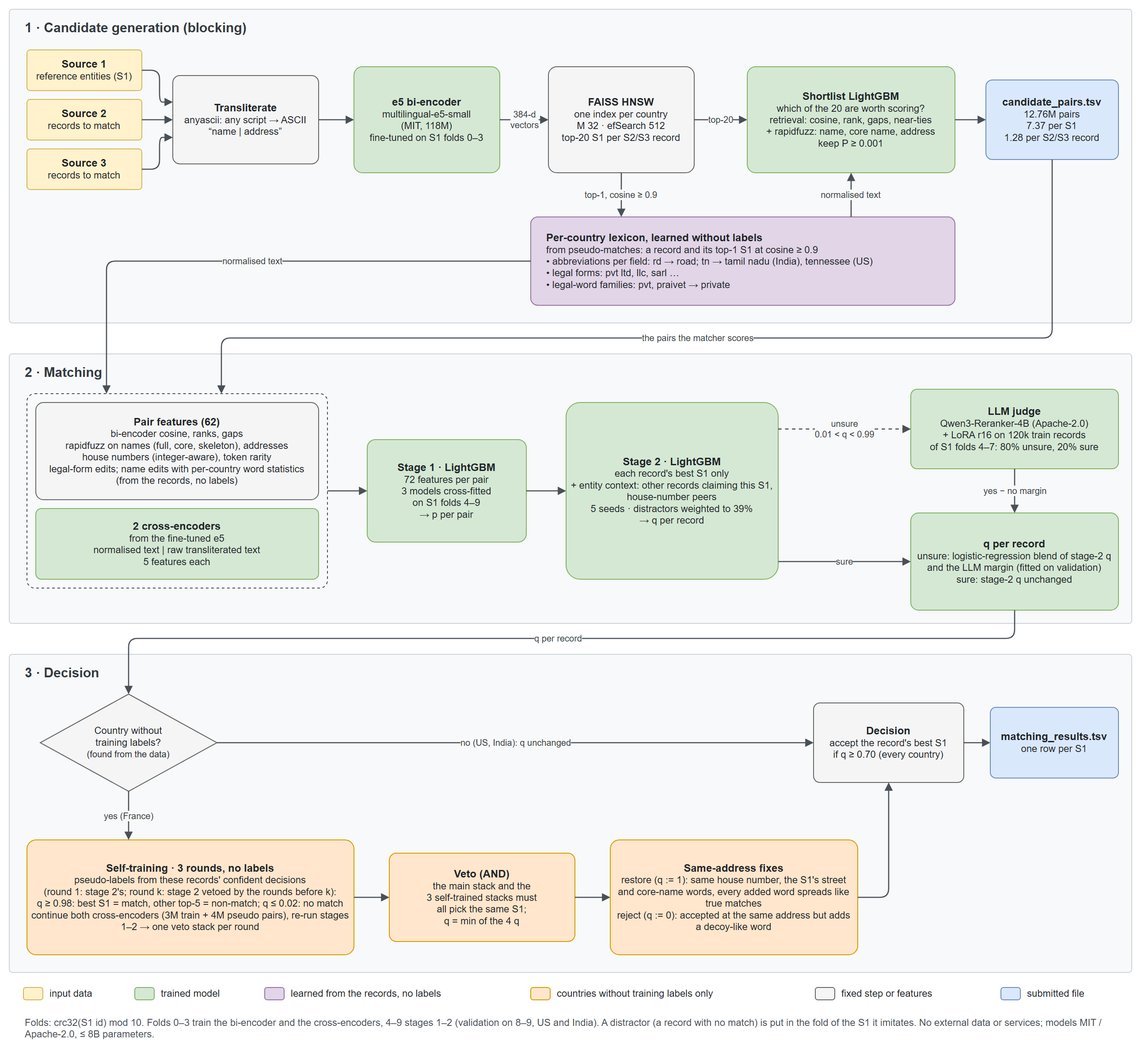
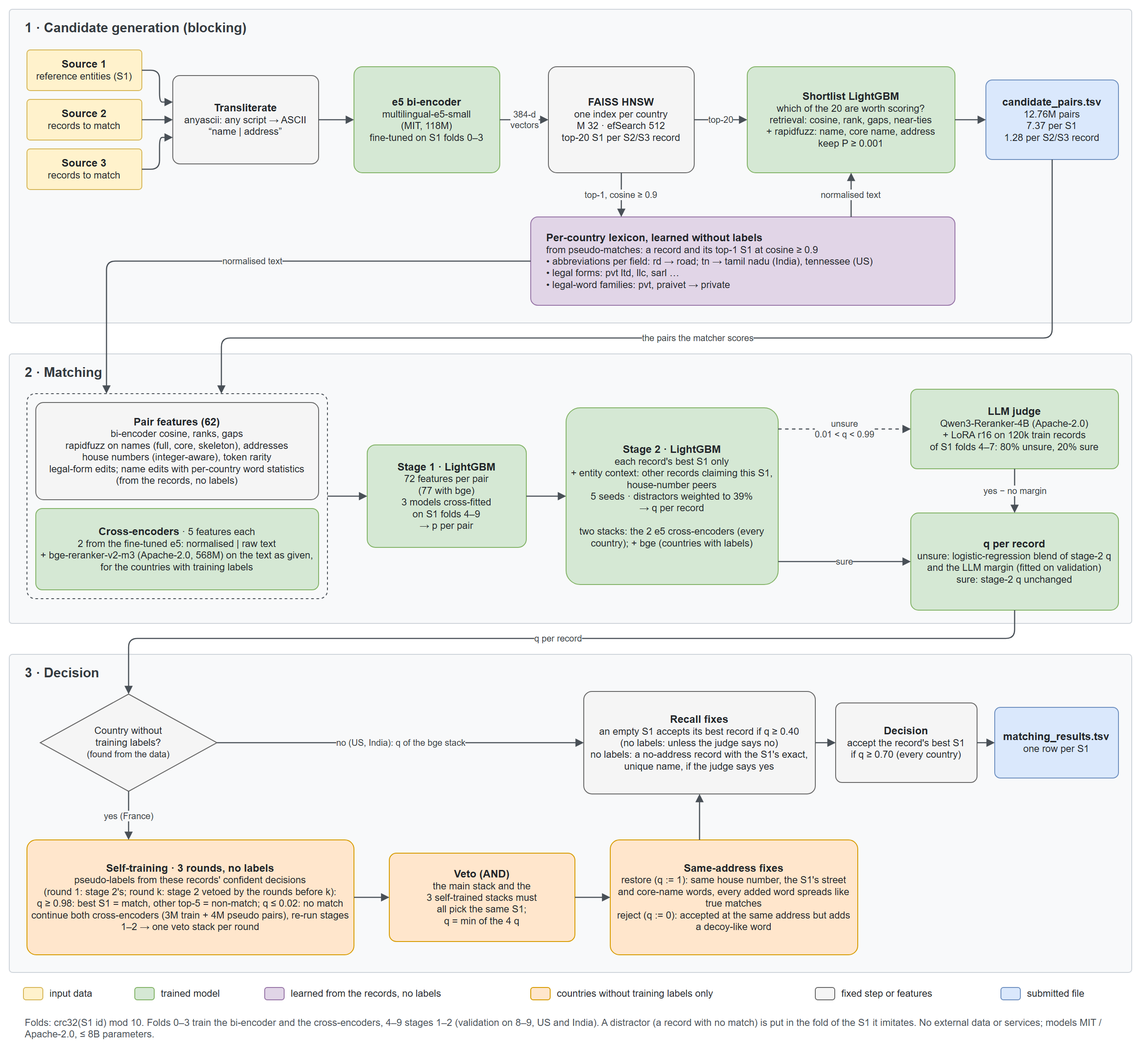
E16fr3 (leaderboard 0.990807): bge stack for the countries with labels, recall fixes
- reproduce.sh: lane C adds BAAI/bge-reranker-v2-m3 as a third cross-encoder after the LLM judge
  (x_ce3.py CE_BASE, 3M pairs) and reruns stages 1-2 with the three cross-encoders; llm_stack_b blends
  the judge into it (x/test_q_v10bplw). The final step takes the countries with labels from this stack
  and the others from the e5 stack with its three self-training vetoes.
- src/x_recall.py (from Mohanish's variant_frB): an S1 with no accepted record takes its best candidate
  if q >= 0.40 (without labels: unless the judge says no); for the countries without labels, a rejected
  no-address record with the S1's exact, unique name that the judge accepts is restored.
  US / India validation: bge + judge 0.99294 (e5 stack 0.99282), empty-S1 rule +0.00007 (Sarvesh's E1 /
  E13); France parts checked by hand review.
- README, Documentation_template.md and pipeline figure updated for this pipeline and score.

diff --git a/ber/src/x_recall.py b/ber/src/x_recall.py
@@ -1,0 +1,96 @@
+"""Two recall fixes on the final scores (after the vetoes and the same-address fixes), from Mohanish's variant_frB.
+  restore_empty  an S1 with no accepted record takes its best candidate if q >= 0.40: an S1 left empty scores 0 as soon
+                 as it has one true match (US / India validation on the bge + LLM stack: +0.00007, `val`). For the
+                 countries without training labels the LLM judge must not say no: the candidates it rejects there are
+                 mostly a type word swapped at the S1's own address (the same-building decoy the same-address fixes
+                 reject).
+  restore_nafr   countries without training labels: a rejected record with no address whose normalised name equals
+                 its S1's and no other S1's of the country, and that the judge accepts. US / India models accept 93-97%
+                 of these records, France 84%: its self-training vetoes learned "no address = reject".
+Both lists leave out the pairs the same-address fixes reject.
+  python x_recall.py COMB LLM RESTORE REJECT   e.g. _fin _v10p restore_dd reject_dd
+      COMB: x/test_q{COMB} (x_final.py SAVE_Q); LLM: x/llm_test{LLM}; RESTORE / REJECT: x_ddfix.py's lists
+      -> x/restore_empty.parquet, x/restore_nafr.parquet for x_final.py RESTORE=...
+  python x_recall.py val [VQ]                  the empty-S1 rule on US / India validation (x/llm_val{VQ}), with labels"""
+import sys, numpy as np, pandas as pd
+from common import WORK, load, unlabelled
+from match import normed
+
+XD = f"{WORK}/x"
+T, TE = 0.70, 0.40
+
+
+def lists(comb, llm, restore, reject):
+    d = pd.read_parquet(f"{XD}/test_q{comb}.parquet")
+    key = pd.MultiIndex.from_arrays([d.rid.values, d.sid.values])
+    rj = pd.MultiIndex.from_frame(pd.read_parquet(f"{XD}/{reject}.parquet")[["rid", "sid"]])
+    for f, val in ((restore, 1.0), (reject, 0.0)):
+        r = pd.read_parquet(f"{XD}/{f}.parquet")
+        d.loc[key.isin(pd.MultiIndex.from_frame(r[["rid", "sid"]])), "q"] = val
+    L = pd.read_parquet(f"{XD}/llm_test{llm}.parquet", columns=["rid", "sid", "llm"])
+    m = pd.Series(L.llm.values, index=pd.MultiIndex.from_frame(L[["rid", "sid"]])).reindex(key).values
+    unl = d.c.isin(unlabelled()).values
+    acc = d.q.values >= T
+    ct1 = load("test", 1).country.values
+    has = np.bincount(d.sid.values[acc], minlength=len(ct1)) > 0
+    ok = ~has[d.sid.values] & (d.q.values >= TE) & ~key.isin(rj) & ~(unl & (m <= 0))
+    b = d[ok].sort_values("q", ascending=False).drop_duplicates("sid")
+    b[["rid", "sid"]].to_parquet(f"{XD}/restore_empty.parquet")
+    print("restore_empty", len(b), b.c.value_counts().to_dict(), flush=True)
+    t1, t2 = normed("test", 1), pd.concat([normed("test", 2), normed("test", 3)], ignore_index=True)
+    noaddr = t2.na.values[d.rid.values] == ""
+    nn = pd.DataFrame({"c": ct1, "nn": t1.nn.values}).value_counts()
+    twin = nn.reindex(pd.MultiIndex.from_arrays([d.c.values, t2.nn.values[d.rid.values]])).fillna(0).values >= 2
+    same = t2.nn.values[d.rid.values] == t1.nn.values[d.sid.values]
+    sel = unl & ~acc & noaddr & ~twin & same & (m > 0) & ~key.isin(rj)
+    d[sel][["rid", "sid"]].to_parquet(f"{XD}/restore_nafr.parquet")
+    print("restore_nafr", int(sel.sum()), d[sel].c.value_counts().to_dict(), flush=True)
+
+
+def val(vq):
+    """the empty-S1 rule on US / India validation: stage 2 + the judge's blend (cross-fitted over two halves of the
+    S1s, as x_llm.stack_check), then every S1 with no accepted row takes its best row if q >= t"""
+    import os
+    os.environ["DFOLD"] = "1"
+    from sklearn.linear_model import LogisticRegression
+    from harness import truth_arrays
+    s1, other, ts, s1f, rf = truth_arrays()
+    Tn = np.bincount(ts[ts >= 0], minlength=len(s1f)); ents = np.where(s1f >= 8)[0]
+    cty = load("train", 1).country.values
+    v = pd.read_parquet(f"{XD}/llm_val{vq}.parquet")
+    X = lambda d: np.c_[np.log(np.clip(d.q.values, 1e-6, 1 - 1e-6) / np.clip(1 - d.q.values, 1e-6, 1)), d.llm.values]
+    band = np.isfinite(v.llm.values); q = v.q.values.copy()
+    for h in (0, 1):
+        tr, te = band & (v.sid.values % 2 != h), band & (v.sid.values % 2 == h)
+        q[te] = LogisticRegression(C=1.0).fit(X(v[tr]), v.y.values[tr], sample_weight=v.wt.values[tr]).predict_proba(X(v[te]))[:, 1]
+    sid, y, wt = v.sid.values, v.y.values, v.wt.values
+
+    def f05(acc, e):
+        n = len(Tn)
+        tp = np.bincount(sid[acc & y], minlength=n)[e]
+        fp = np.bincount(sid[acc & ~y], weights=wt[acc & ~y], minlength=n)[e]
+        t = Tn[e]
+        pr = np.divide(tp, tp + fp, out=np.zeros(len(t)), where=tp + fp > 0)
+        rc = tp / np.maximum(t, 1)
+        f = np.divide(1.25 * pr * rc, 0.25 * pr + rc, out=np.zeros(len(t)), where=tp > 0)
+        return np.where(t == 0, (tp + fp == 0).astype(float), f).mean()
+
+    acc = q >= T
+    has = np.bincount(sid[acc], minlength=len(Tn)) > 0
+    best = pd.DataFrame({"i": np.arange(len(v)), "sid": sid, "q": q})[~has[sid]].sort_values("q", ascending=False).drop_duplicates("sid")
+    for c in sorted(set(cty[ents])) + ["all"]:
+        e = ents if c == "all" else ents[cty[ents] == c]
+        f0 = f05(acc, e)
+        out = []
+        for t in (0.2, 0.3, 0.4, 0.5, 0.6):
+            k = best[(best.q.values >= t) & np.isin(best.sid.values, e)].i.values
+            a = acc.copy(); a[k] = True
+            out.append(f"t {t}: +{len(k)} rows (true {y[k].mean() if len(k) else 0:.3f}) {f05(a, e) - f0:+.5f}")
+        print(f"{c}: F0.5 {f0:.5f}; " + "; ".join(out), flush=True)
+
+
+if __name__ == "__main__":
+    if sys.argv[1] == "val":
+        val(sys.argv[2] if len(sys.argv) > 2 else "_v10p")
+    else:
+        lists(*sys.argv[1:5])

diff --git a/ber/Documentation_template.md b/ber/Documentation_template.md
@@ -12,10 +12,11 @@ We resolve every Source 2 / Source 3 record on its own: find its best Source 1 (
 candidate set, then accept or reject that one link with models that also see every other record claiming the same
 entity. Blocking uses a fine-tuned multilingual bi-encoder, HNSW search and a calibrated LightGBM shortlist. It produces
 7.37 candidate pairs per S1 and keeps 99.98% of the true pairs that retrieval finds. Matching stacks two LightGBM
-stages over 62 pair features and two cross-encoders, and a LoRA-tuned 4B reranker judges the unsure records. France has
-no training labels, so it gets three self-training rounds, used only as vetoes, and label-free fixes derived from how
-the data places decoys at house numbers. Macro F0.5 is **0.99282 on US / India validation** and **0.990349 on the
-public leaderboard**.
+stages over 62 pair features and two cross-encoders (three, with a bge reranker, for the countries with training
+labels), and a LoRA-tuned 4B reranker judges the unsure records. France has no training labels, so it gets three
+self-training rounds, used only as vetoes, and label-free fixes derived from how the data places decoys at house
+numbers. Last, recall fixes fill S1s left empty and restore no-address records that carry the S1's exact, unique name.
+Macro F0.5 is **0.9930 on US / India validation** and **0.990807 on the public leaderboard**.
 
 ---
 
@@ -47,6 +48,8 @@ We measured these on the provided files (train: US and India; test: US, India an
 2. **A country without labels, handled without hand-written rules:** self-training that can only *remove* matches (an
    AND-veto), and a label-free "census" of decoy placement that decides same-address records. Both were validated on
    the labelled countries before use.
+3. **The metric rewards recall per entity:** an S1 left empty scores 0 as soon as it has one true match, so an empty
+   S1 takes its best candidate above a lower bar (validated on the labelled countries).
 
 ![Pipeline](pipeline.png)
 
@@ -121,7 +124,8 @@ about. We kept P ≥ 0.001.
 
 ## 4. Matching Model
 
-**Features used** (72 per pair in stage 1: 45 pair features, 17 edit / number features, 10 cross-encoder features):
+**Features used** (72 per pair in stage 1: 45 pair features, 17 edit / number features, 10 cross-encoder features;
+77 in the stack with the bge cross-encoder):
 
 - **Name features:**
     - rapidfuzz ratio, token-set, token-sort, partial and Jaro-Winkler on the normalised full name and on the core name
@@ -157,7 +161,8 @@ about. We kept P ≥ 0.001.
 | Component | Model | Trained on |
 |---|---|---|
 | Cross-encoders (×2) | e5-small initialised from the fine-tuned bi-encoder, one on normalised text and one on raw transliterated text (the raw one keeps punctuation and suffix spellings) | retrieved top-5 pairs of S1 folds 0–3, so wrong-S1 negatives are included |
-| Stage 1 | LightGBM (255 leaves, lr 0.05) on 72 features, cross-fitted in 3 fold groups over folds 4–9 (test = mean of the 3 models) | all candidate pairs |
+| Third cross-encoder (countries with labels) | `BAAI/bge-reranker-v2-m3` (Apache-2.0, 568M) on the text as given (case, accents, scripts); stages 1–2 are rerun with all three cross-encoders, and this stack is the base for the countries with labels (validation with the judge 0.99294 vs 0.99282). The countries without labels keep the two-cross-encoder stack, on which their self-training is built | 3M retrieved pairs of S1 folds 0–3 |
+| Stage 1 | LightGBM (255 leaves, lr 0.05) on 72 features (77 with bge), cross-fitted in 3 fold groups over folds 4–9 (test = mean of the 3 models) | all candidate pairs |
 | Stage 2 | LightGBM on each record's best pair + entity context; distractors weighted to the test share (39%), 5 seeds averaged | folds 4–9 (validated on 8–9 after fitting on 4–7) |
 | LLM judge | `Qwen/Qwen3-Reranker-4B` (Apache-2.0, 4.0B) + LoRA (r 16, α 32) on the raw name and address text; score = logit(yes) − logit(no) | 120k best pairs of folds 4–7: 80% with an unsure stage-1 p, 20% sure |
 | Judge blend | For unsure records (0.01 < q < 0.99), a logistic regression on [logit q, LLM margin] replaces q | validation rows |
@@ -165,8 +170,10 @@ about. We kept P ≥ 0.001.
 | Vetoes | a record of such a country is accepted only if the main stack and the 3 self-trained stacks all pick the same S1, at the lowest of the 4 scores | |
 | Same-address fixes (countries without labels) | label-free census: each S1 gets a roughly fixed number of decoys, normally at one shifted number, so a decoy placed at the S1's *own* address leaves that shifted cluster short. For every word records add at the S1's address, we compare how many of the S1's records sit at other numbers, between those records and unedited ones (total variation distance TV). **True-like** (TV ≤ 0.10): a structurally matching record (same number and sub-number, the S1's distinctive street words, first and rarest core-name word) adding only such words is restored. **Decoy-like** (TV ≥ 0.20): an accepted same-address record adding one is rejected | the test records' own structure. On US / India validation, TV ≤ 0.10 words are 98.7% / 90.8% true and TV ≥ 0.20 words 22.5% true (India) |
 
-The fixes run only where labels are missing. Where labels exist, the models already get these records right, and the
-same fixes would cost India 0.0024 (checked with labels).
+| Recall fixes | **Empty S1s:** an S1 with no accepted record takes its best candidate if q ≥ 0.40 (every country; for the countries without labels only if the LLM judge does not say no, since the candidates it rejects there are mostly a type word swapped at the S1's own address). **No-address records (countries without labels):** a rejected record with no address whose normalised name equals its S1's and no other S1's of the country, and that the judge accepts, is restored | US / India validation: the empty-S1 rule +0.00007. No-address records with the S1's exact, unique name: US / India models accept 93–97%, France's 84% (its self-training vetoes learned "no address = reject") |
+
+The same-address fixes and the no-address restores run only where labels are missing. Where labels exist, the models
+already get these records right, and the same-address fixes would cost India 0.0024 (checked with labels).
 
 **Threshold selection method:** F0.5 optimised on the test-like validation set above (US / India, entity folds 8–9,
 39% distractors, no copies). We accept a record's best S1 when **q ≥ 0.70**, one threshold for every country (flat
@@ -178,8 +185,9 @@ singletons) gained +0.00000, and an expected-F0.5 decision per S1 did worse than
 ## 5. Results & Error Analysis
 
 - **F_0.5 Score (macro):**
-    - validation (US / India): **0.99282** with the LLM judge; 0.99262 for stage 2 alone;
-    - public leaderboard: **0.990349**.
+    - validation (US / India): **0.9930** with the bge stack, the LLM judge and the empty-S1 rule (0.99294 without the
+      rule; 0.99282 for the two-cross-encoder stack with the judge; 0.99262 for its stage 2 alone);
+    - public leaderboard: **0.990807**.
     - France has no labels. If US / India score on the leaderboard about as on validation, the leaderboard implies a
       France F0.5 of roughly 0.98.
 
@@ -212,6 +220,11 @@ singletons) gained +0.00000, and an expected-F0.5 decision per S1 did worse than
       S1's own address, which the census and the hand review mark as true-match noise. They also accepted same-address type-word swaps (*Club → École*, *Amicale → Comité*) that are
       France-specific decoys. The census fixes restored 32,620 records and rejected 11,105, worth about **+0.0032** on
       the leaderboard.
+    - **France, no-address records and empty S1s:** the self-training vetoes also rejected records with no address
+      that carry the S1's exact, unique name (`Fleuri Confrerie-Culturelle E.U.R.L.`, `Team Ecole [(France)]`), and
+      left S1s empty whose only true record is an alias or initials at the S1's own address (`Drexarc Labs`, `BF`,
+      `EL`). The recall fixes restored 2,508 such records and filled 344 empty France S1s (923 in US / India); with the
+      bge stack for US / India, the leaderboard rose from 0.990349 to **0.990807**.
 
 The largest remaining loss (+0.00208) is information-limited: the missing address cannot be recovered, and per-bucket
 thresholds did not help. For scale, an oracle over all three error types gives about 0.9957.
@@ -221,8 +234,8 @@ thresholds did not help. For scale, an oracle over all three error types gives a
 ## 6. Conclusion
 
 Treating entity resolution as "pick at most one S1 per record, then judge it with the entity's other claimants" plus a
-calibrated learned blocker gave 0.9928 validation F0.5 with 7.37 candidate pairs per S1. Cross-encoders and a LoRA-tuned
-4B reranker helped when stacked, not alone. For the country without labels, the gains came from label-free structure the
+calibrated learned blocker gave 0.9930 validation F0.5 with 7.37 candidate pairs per S1. Cross-encoders (two e5, plus a
+bge reranker for the countries with labels) and a LoRA-tuned 4B reranker helped when stacked, not alone. For the country without labels, the gains came from label-free structure the
 data generator cannot hide: where decoys sit relative to the S1's address, and self-training used only as a veto. Each
 statistic was checked on the labelled countries first. The main lessons: make validation look like test (distractor
 share, no copies, decoys in their entity's fold), and test every hand-found rule on labelled data before trusting it.
@@ -233,7 +246,7 @@ share, no copies, decoys in their entity's fold), and test every hand-found rule
 
 ### A. Code Artefacts
 
-`code/business_entity_resolution/` holds `src/` (21 modules), `README.md`, `requirements.txt` (pinned) and
+`code/business_entity_resolution/` holds `src/` (22 modules), `README.md`, `requirements.txt` (pinned) and
 **`reproduce.sh`, the single entry point**. It runs every step in dependency order from the provided
 `student_resource/`, then validates the output with the organisers' validator (`--check-ids`):
 
@@ -251,19 +264,24 @@ AMLC_ROOT=/folder/with/student_resource GPU_A=0 GPU_B=1 GPU_C=2 bash reproduce.s
 | Bi-encoder fine-tuning; HNSW retrieval | `train_embed.py`, `retrieve.py` |
 | Calibrated shortlist (= `candidate_pairs.tsv`) | `x_shortlist2.py`, `match.py` |
 | Pair features; edit / number features | `match.py`, `x_feats.py` |
-| Cross-encoders (and their self-training) | `x_ce3.py` |
+| Cross-encoders: two e5 and bge (and their self-training) | `x_ce3.py` |
 | Stage 1 (cross-fitted); stage 2 with entity context and peers | `stage1_cv.py`, `x_stage_multi.py`, `stage2.py`, `x_nocopy.py`, `decide.py` |
 | LLM judge and blend | `x_llm.py`, `x_llmstack.py` |
 | Same-address fixes (countries without labels) | `x_anatomy.py`, `wstat.py`, `rule_fr.py`, `x_ddfix.py` |
+| Recall fixes (empty S1s; no-address records) | `x_recall.py` |
 | Vetoes, fixes, threshold → the two TSV files | `x_final.py` |
 
-- **Hardware and time:** three A100 80GB GPUs (one works; lanes share it), ~64 CPU cores, ~250 GB RAM; about 8–9 h
+- **Hardware and time:** three A100 80GB GPUs (one works; lanes share it), ~64 CPU cores, ~250 GB RAM; about 9–10 h
   end to end with three GPUs. Each step logs to `work/logs/<step>.log` and leaves a `.done` marker, so a rerun resumes.
-- **Reproducibility:** seeds are fixed, but GPU training is not bit-deterministic. A from-scratch rerun of the previous version
-  (the same pipeline up to stage 2) matched every stage's validation within 0.0001, and 98.9% of S1 rows equalled its
-  submitted file. It gave 7.72 candidate pairs per S1 (the retrained bi-encoder calibrates slightly differently).
-- **Models:** `intfloat/multilingual-e5-small` (MIT, 118M) and `Qwen/Qwen3-Reranker-4B` (Apache-2.0, 4.0B ≤ 8B), both
-  fine-tuned only on the provided data and run offline. Libraries: LightGBM, FAISS, rapidfuzz, anyascii,
+- **Reproducibility:** seeds are fixed, but GPU training is not bit-deterministic. The submitted file was built by
+  `reproduce.sh`'s steps on the intermediate files of our original run. A rerun of the script (from scratch through
+  stage 2, then every later step) matched every stage's validation within 0.0001, and the file before the bge stack
+  and the recall fixes matched ours on 98.9% of S1 rows. It gave 7.72 candidate pairs per S1 (the retrained shortlist
+  calibrates slightly differently). The submitted file's LLM judge was trained on the unsure records of an earlier
+  stage 1 that used two more cross-encoders (since removed); the script trains it on its own stage 1's (validation
+  with the judge 0.99283 vs 0.99282).
+- **Models:** `intfloat/multilingual-e5-small` (MIT, 118M), `BAAI/bge-reranker-v2-m3` (Apache-2.0, 568M) and
+  `Qwen/Qwen3-Reranker-4B` (Apache-2.0, 4.0B ≤ 8B), all fine-tuned only on the provided data and run offline. Libraries: LightGBM, FAISS, rapidfuzz, anyascii,
   PyTorch, transformers, peft.
 - **Compliance:** no external databases, APIs or lookups; no hand-written word lists or country tables; nothing names
   a country. Statistics on test records are unsupervised, and self-training uses only the pipeline's own confident
@@ -283,7 +301,8 @@ AMLC_ROOT=/folder/with/student_resource GPU_A=0 GPU_B=1 GPU_C=2 bash reproduce.s
 | v10_fr3 | veto round 3 | = | 0.98608 |
 | v10_fr3_llm | + LLM judge | 0.99282² | 0.98707 |
 | v10_fr3_llm_dd | + same-address census fixes | = | 0.99028 |
-| **submitted** | France rounds seeded from the main stack itself; judge on every unsure record | **0.99282²** | **0.990349** |
+| variant_v10seed_dd | France rounds seeded from the main stack itself; judge on every unsure record | 0.99282² | 0.99035 |
+| **submitted** | + bge cross-encoder for the countries with labels; recall fixes (empty S1s, no-address records) | **0.9930²** | **0.990807** |
 
 ¹ With duplicated distractors (inflated). ² The harder validation set (each distractor in its S1's fold).
 
@@ -296,8 +315,16 @@ of it came from France. France is 15% of the S1s, so a France-only change of Δ 
   validation the rows it rejected were 99.6% true (US 0.99277 → 0.99074).
 - Taking France's decisions from the self-trained stack instead of using it as a veto: its new rejections were ~80%
   decoys, its new acceptances ~45% decoys (confirmation bias).
-- Word-edit log-likelihood features (+0.00001), signed house-number shift features (+0.00003), a third cross-encoder
-  (bge-reranker-v2-m3, +0.00016; not in the final pipeline), LightGBM + XGBoost judge ensembles (~0).
+- Word-edit log-likelihood features (+0.00001), signed house-number shift features (+0.00003), LightGBM + XGBoost
+  judge ensembles (~0); averaging the bge and e5 stacks (below bge alone); per-country thresholds (+0.00001).
+- The bge stack as the base, or as a fourth veto, for France: as a veto it removed ~3,650 accepted France records, 89%
+  of them at the S1's own address and mostly adding *& Fils*, *Groupe* or *Développement*: the suffix records the
+  census shows are true matches.
+- Restoring no-address records that match their S1 only by core name (legal form differing or missing): most of them
+  have a namesake S1 that differs only in the legal form, so a hand review found them ~60% right, below the ~75% an
+  added record needs under F0.5.
+- A smaller candidate set for the countries with labels (shortlist P ≥ 0.005 there): −5.8% pairs for −0.00002
+  validation, i.e. no measurable cost, but it needs a per-country cut and a second retrain for no score gain.
 - A zero-shot 7B LLM judge (AUC 0.59 on unsure pairs); the LoRA fine-tune is what makes the judge work (AUC 0.84, and
   complementary to stage 2's 0.94).
 - Continuing the LLM on France pseudo-labels: it copied the vetoes' decisions.

diff --git a/ber/README.md b/ber/README.md
@@ -1,7 +1,7 @@
 # Business Entity Resolution
 
 Match every Source 2 / Source 3 record to the Source 1 (reference) entity it belongs to, scored by macro F0.5.
-This folder holds only the code that builds our submitted file (**leaderboard 0.990349**) and `reproduce.sh`, which
+This folder holds only the code that builds our submitted file (**leaderboard 0.990807**) and `reproduce.sh`, which
 runs it end to end from the provided data.
 
 ## Pipeline
@@ -28,6 +28,11 @@ country or a language.
    folds 4–9 in three groups. **Stage 2** (`x_nocopy.py`): each record's best candidate re-scored with entity context
    (the other records claiming the same S1, and those at the same house number: `PEERS=1`), distractors weighted to
    the test share (39%), five seeds.
+   **A third cross-encoder for the countries with training labels:** `BAAI/bge-reranker-v2-m3` on the text as given
+   (case, accents, scripts), fine-tuned on 3M pairs of folds 0–3 (`x_ce3.py` with `CE_BASE`), and stages 1–2 rerun
+   with all three cross-encoders. This stack is the base for the countries with labels (US / India validation with the
+   LLM judge 0.99294, two-cross-encoder stack 0.99282); the countries without labels keep the two-cross-encoder stack,
+   on which their self-training rounds are built.
 6. **Self-training for the countries without training labels** (test countries with no labelled training record,
    found from the data by `common.unlabelled()`: France here; `x_ce3.py train` with `SELF=`): both
    cross-encoders are continued on test pairs whose decision so far is confident (q ≥ 0.98: the best S1 is a match and
@@ -38,7 +43,7 @@ country or a language.
    allows self-training on the test records.
 7. **LLM judge** (`x_llm.py`, `x_llmstack.py`): `Qwen/Qwen3-Reranker-4B` with a LoRA (r 16) trained on 120k train
    records of folds 4–7 whose stage-1 p is unsure; its yes − no margin is blended with the stage-2 score by a logistic
-   regression fitted on validation, for unsure records (0.01 < q < 0.99) only.
+   regression fitted on validation, for unsure records (0.01 < q < 0.99) only, in both stacks.
 8. **Same-address fixes for the countries without labels** (`x_ddfix.py`, with `rule_fr.py`, `wstat.py`, `x_anatomy.py`):
    decoys copy an S1's name with one edit and move to a shifted house number; each S1 gets a roughly fixed number of
    them, so a decoy placed at the S1's own address leaves its shifted cluster short. For every word added at the same
@@ -49,16 +54,26 @@ country or a language.
    true-like are restored; accepted same-address records adding a decoy-like word are rejected. Where labels exist the
    models already get these right and the same fixes would hurt (`python x_ddfix.py check`: India would lose 0.0024),
    so they apply only to the countries without labels.
-9. **Decision** (`x_final.py`): accept a record when its score is ≥ 0.70, the same threshold for every country.
+9. **Recall fixes** (`x_recall.py`):
+   - *Empty S1s:* an S1 with no accepted record takes its best candidate if its score is ≥ 0.40. An S1 left empty
+     scores 0 as soon as it has one true match (US / India validation +0.00007). For the countries without labels the
+     LLM judge must also not say no: the candidates it rejects there are mostly a type word swapped at the S1's own
+     address, the same-building decoy of step 8.
+   - *No-address records, countries without labels:* a rejected record with no address whose normalised name equals
+     its S1's and no other S1's of the country, and that the judge accepts, is restored. US / India models accept
+     93–97% of such records, France's 84%: its self-training vetoes learned "no address = reject".
+10. **Decision** (`x_final.py`): accept a record when its score is ≥ 0.70, the same threshold for every country.
 
 Folds: `crc32(S1 id) % 10`; 0–3 train the bi-encoder and the cross-encoders, 4–9 stages 1 and 2; stage 2 is validated
-on entity folds 8–9 after fitting on 4–7 (US / India validation F0.5 0.99282 with the LLM judge).
+on entity folds 8–9 after fitting on 4–7 (US / India validation F0.5 0.99294 with the bge stack and the LLM judge,
++0.00007 with the empty-S1 rule).
 
 ## Leaderboard
 
 | File | Score |
 |---|---|
-| **variant_v10seed_dd** (submitted; this pipeline) | **0.990349** |
+| **E16fr3** (submitted; this pipeline) | **0.990807** |
+| variant_v10seed_dd (without the bge stack and the recall fixes) | 0.990349 |
 | v10_fr3_llm_dd (France rounds seeded from two older stacks, since removed) | 0.990282 |
 | v10_fr3_llm (without the same-address fixes) | 0.987071 |
 | v10_fr3 | 0.986077 |
@@ -74,17 +89,21 @@ AMLC_ROOT=/folder/with/student_resource GPU_A=0 GPU_B=1 GPU_C=2 bash reproduce.s
 ```
 - Data: `student_resource/` (the provided zip, unchanged) inside `AMLC_ROOT`; caches, models and logs go to
   `$AMLC_ROOT/work`, the submission to `$AMLC_ROOT/output/` (validated with `--check-ids` at the end).
-- Models (fetched on first use; on an offline node set `HF_HOME`, or `E5=` / `LLM=` to local copies):
-  `intfloat/multilingual-e5-small` (MIT, 118M) and `Qwen/Qwen3-Reranker-4B` (Apache-2.0, 4.0B).
+- Models (fetched on first use; on an offline node set `HF_HOME`, or `E5=` / `LLM=` / `BGE=` to local copies):
+  `intfloat/multilingual-e5-small` (MIT, 118M), `BAAI/bge-reranker-v2-m3` (Apache-2.0, 568M) and
+  `Qwen/Qwen3-Reranker-4B` (Apache-2.0, 4.0B).
 - Hardware: three A100 80GB GPUs (fewer work: `GPU_C` defaults to `GPU_B`, `GPU_B` to `GPU_A`), ~64 cores, ~250 GB
-  RAM. About 8–9 h with three GPUs; retrieval (CPU) takes 2 of them.
+  RAM. About 9–10 h with three GPUs; retrieval (CPU) takes 2 of them.
 - Each step logs to `work/logs/<step>.log` and leaves `<step>.done`; rerunning `reproduce.sh` resumes after the last
   finished step. The steps and their environment variables are listed in `reproduce.sh` in dependency order.
 - GPU training (bi-encoder, cross-encoders, LoRA) is not bit-deterministic, so a rerun matches the submitted files
-  closely but not byte for byte. A from-scratch rerun of the previous version (identical up to stage 2) matched every
-  stage's validation within 0.0001 and its submitted file on 98.9% of S1 rows, with 7.72 candidate pairs per S1
-  (submitted 7.37). The submitted file's LLM judge was trained on the unsure records of an earlier stage 1 that used
-  two more cross-encoders (since removed); this script trains it on its own stage 1's.
+  closely but not byte for byte. The submitted file was built by this script's steps on the intermediate files of our
+  original run. A rerun of this script (from scratch through stage 2, then every later step): every stage's
+  validation within 0.0001 of the original run, and the file before the bge stack and the recall fixes matched ours
+  on 98.9% of S1 rows (F0.5 0.9977 scored against it), with 7.72 candidate pairs per S1 (submitted 7.37: the
+  retrained shortlist model calibrates a little differently). The submitted file's LLM judge was trained on the unsure
+  records of an earlier stage 1 that used two more cross-encoders (since removed); this script trains it on its own
+  stage 1's (validation with the judge 0.99283; the submitted file's judge 0.99282).
 
 No external databases, APIs or lookup services are used at any stage, and there are no hand-written word lists:
 abbreviations, legal forms and word statistics are learned from the provided records (test records without labels,
